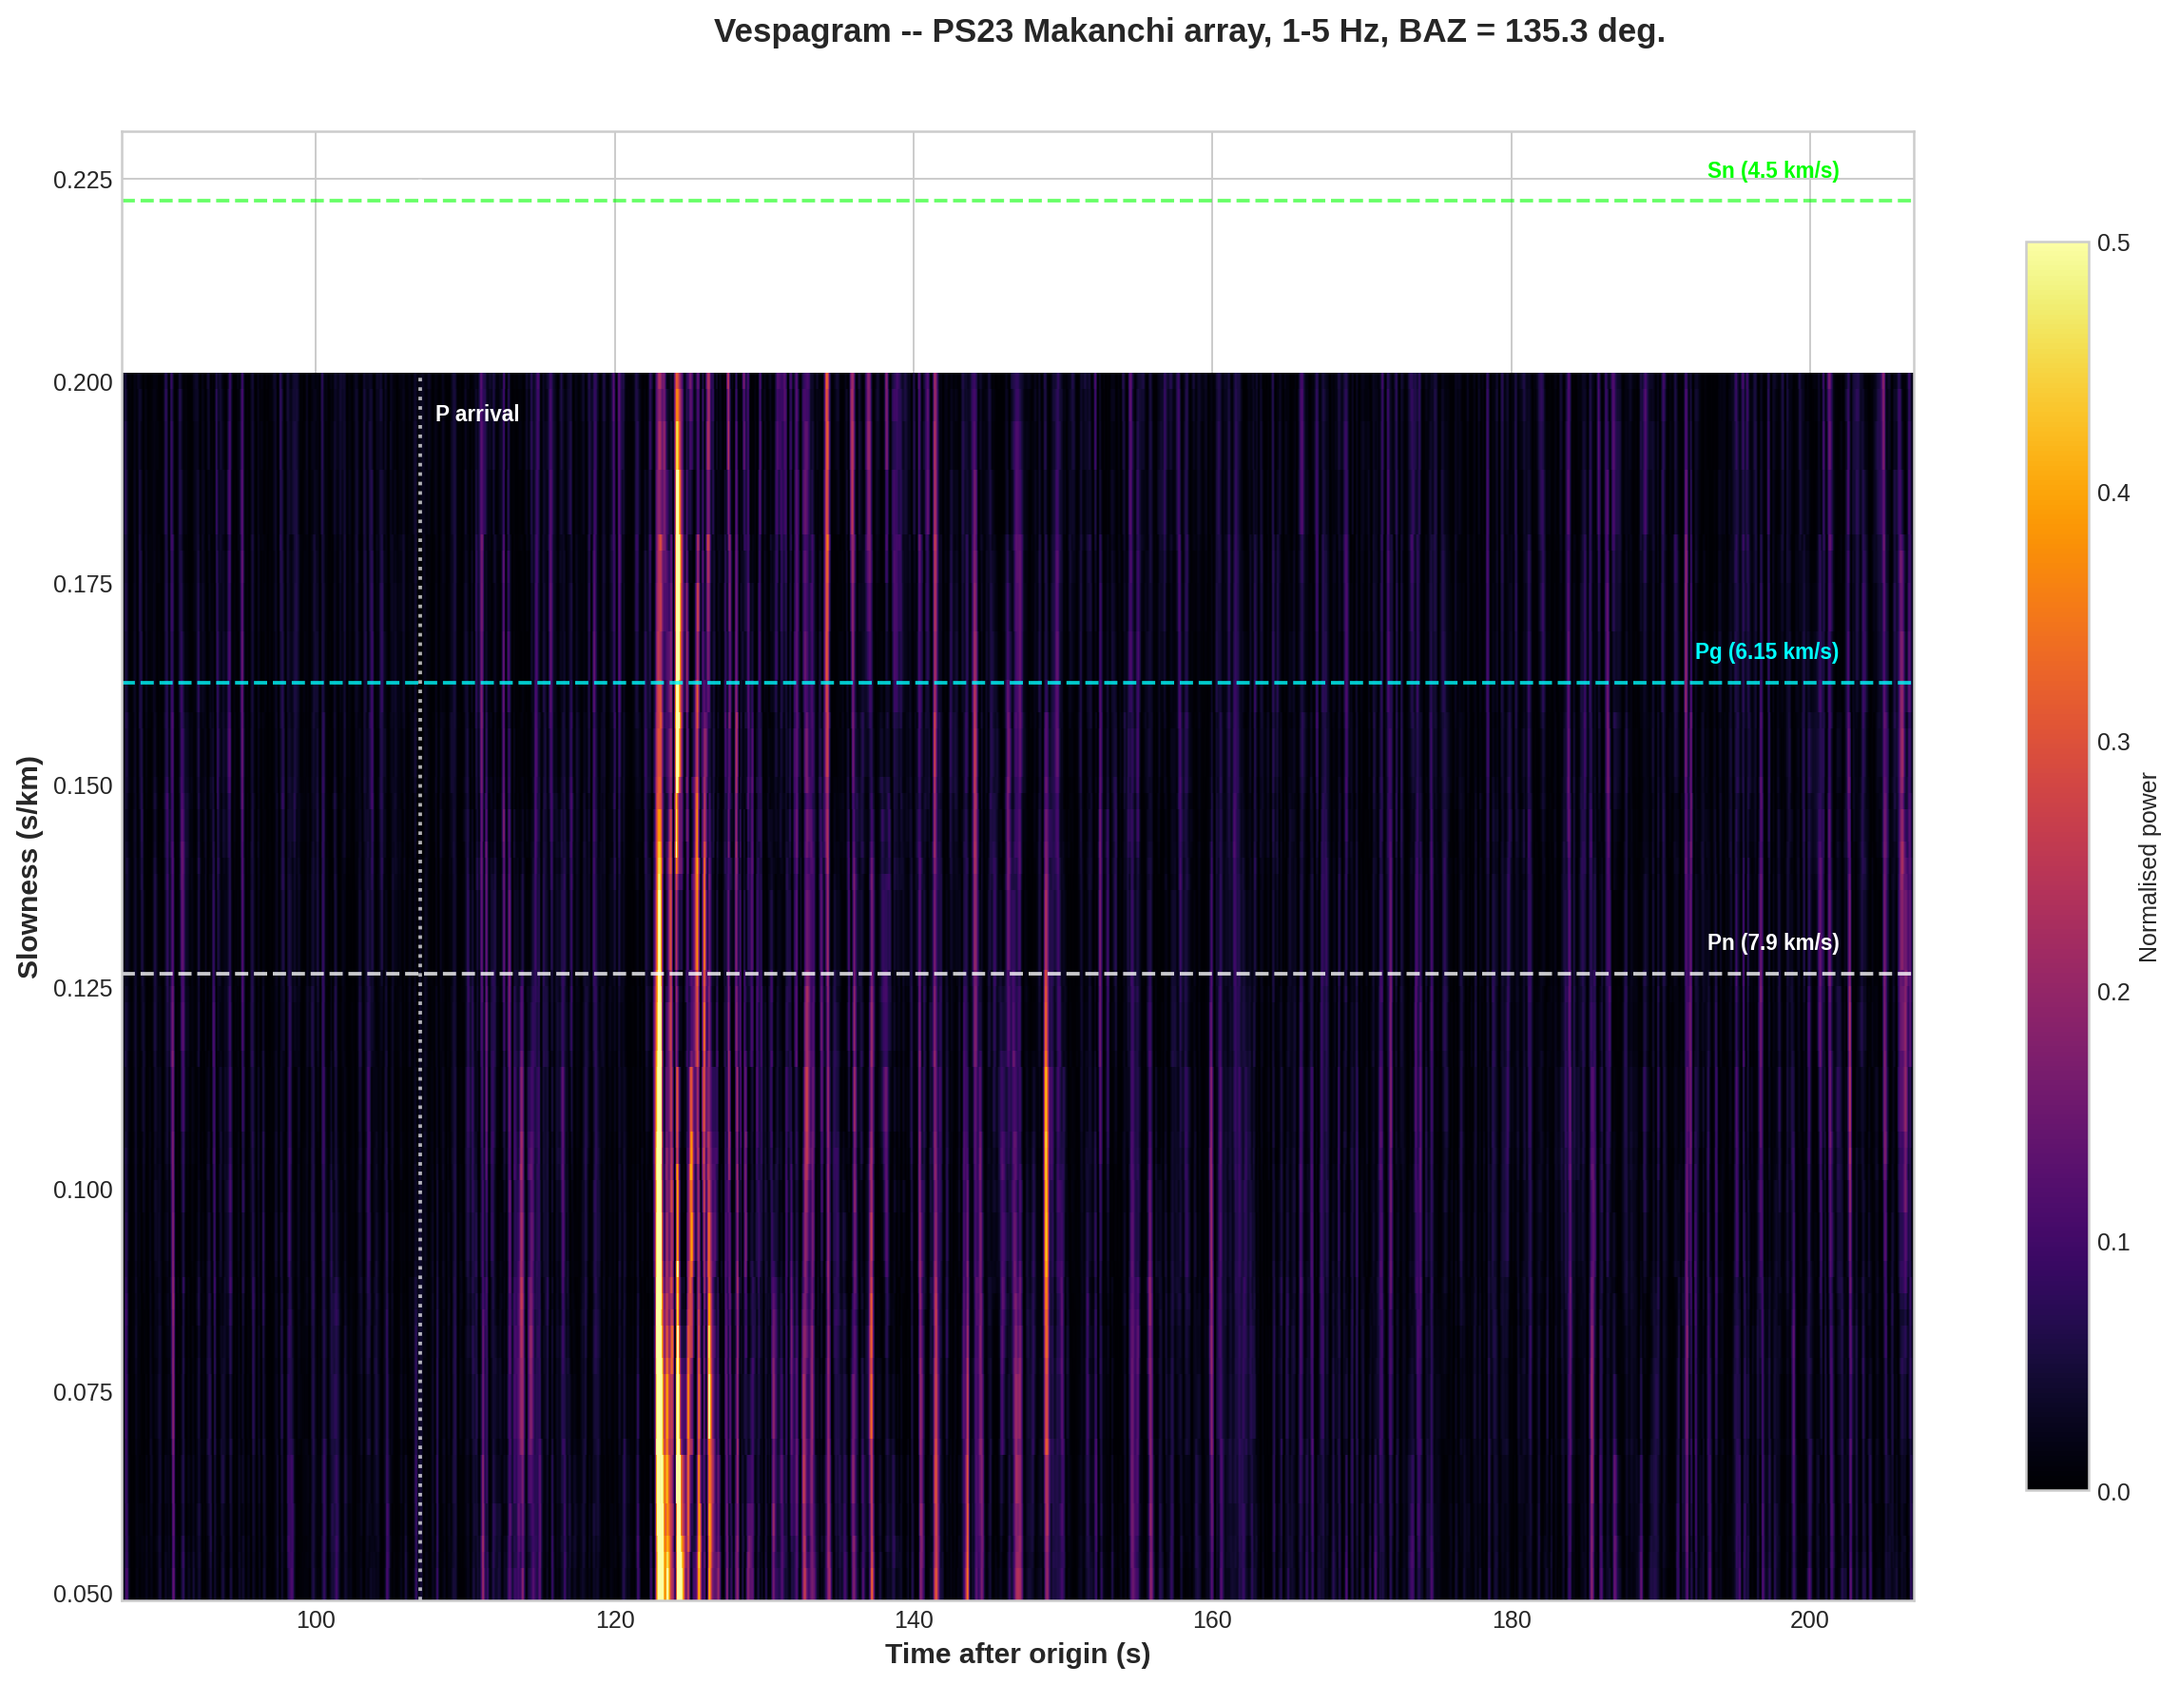
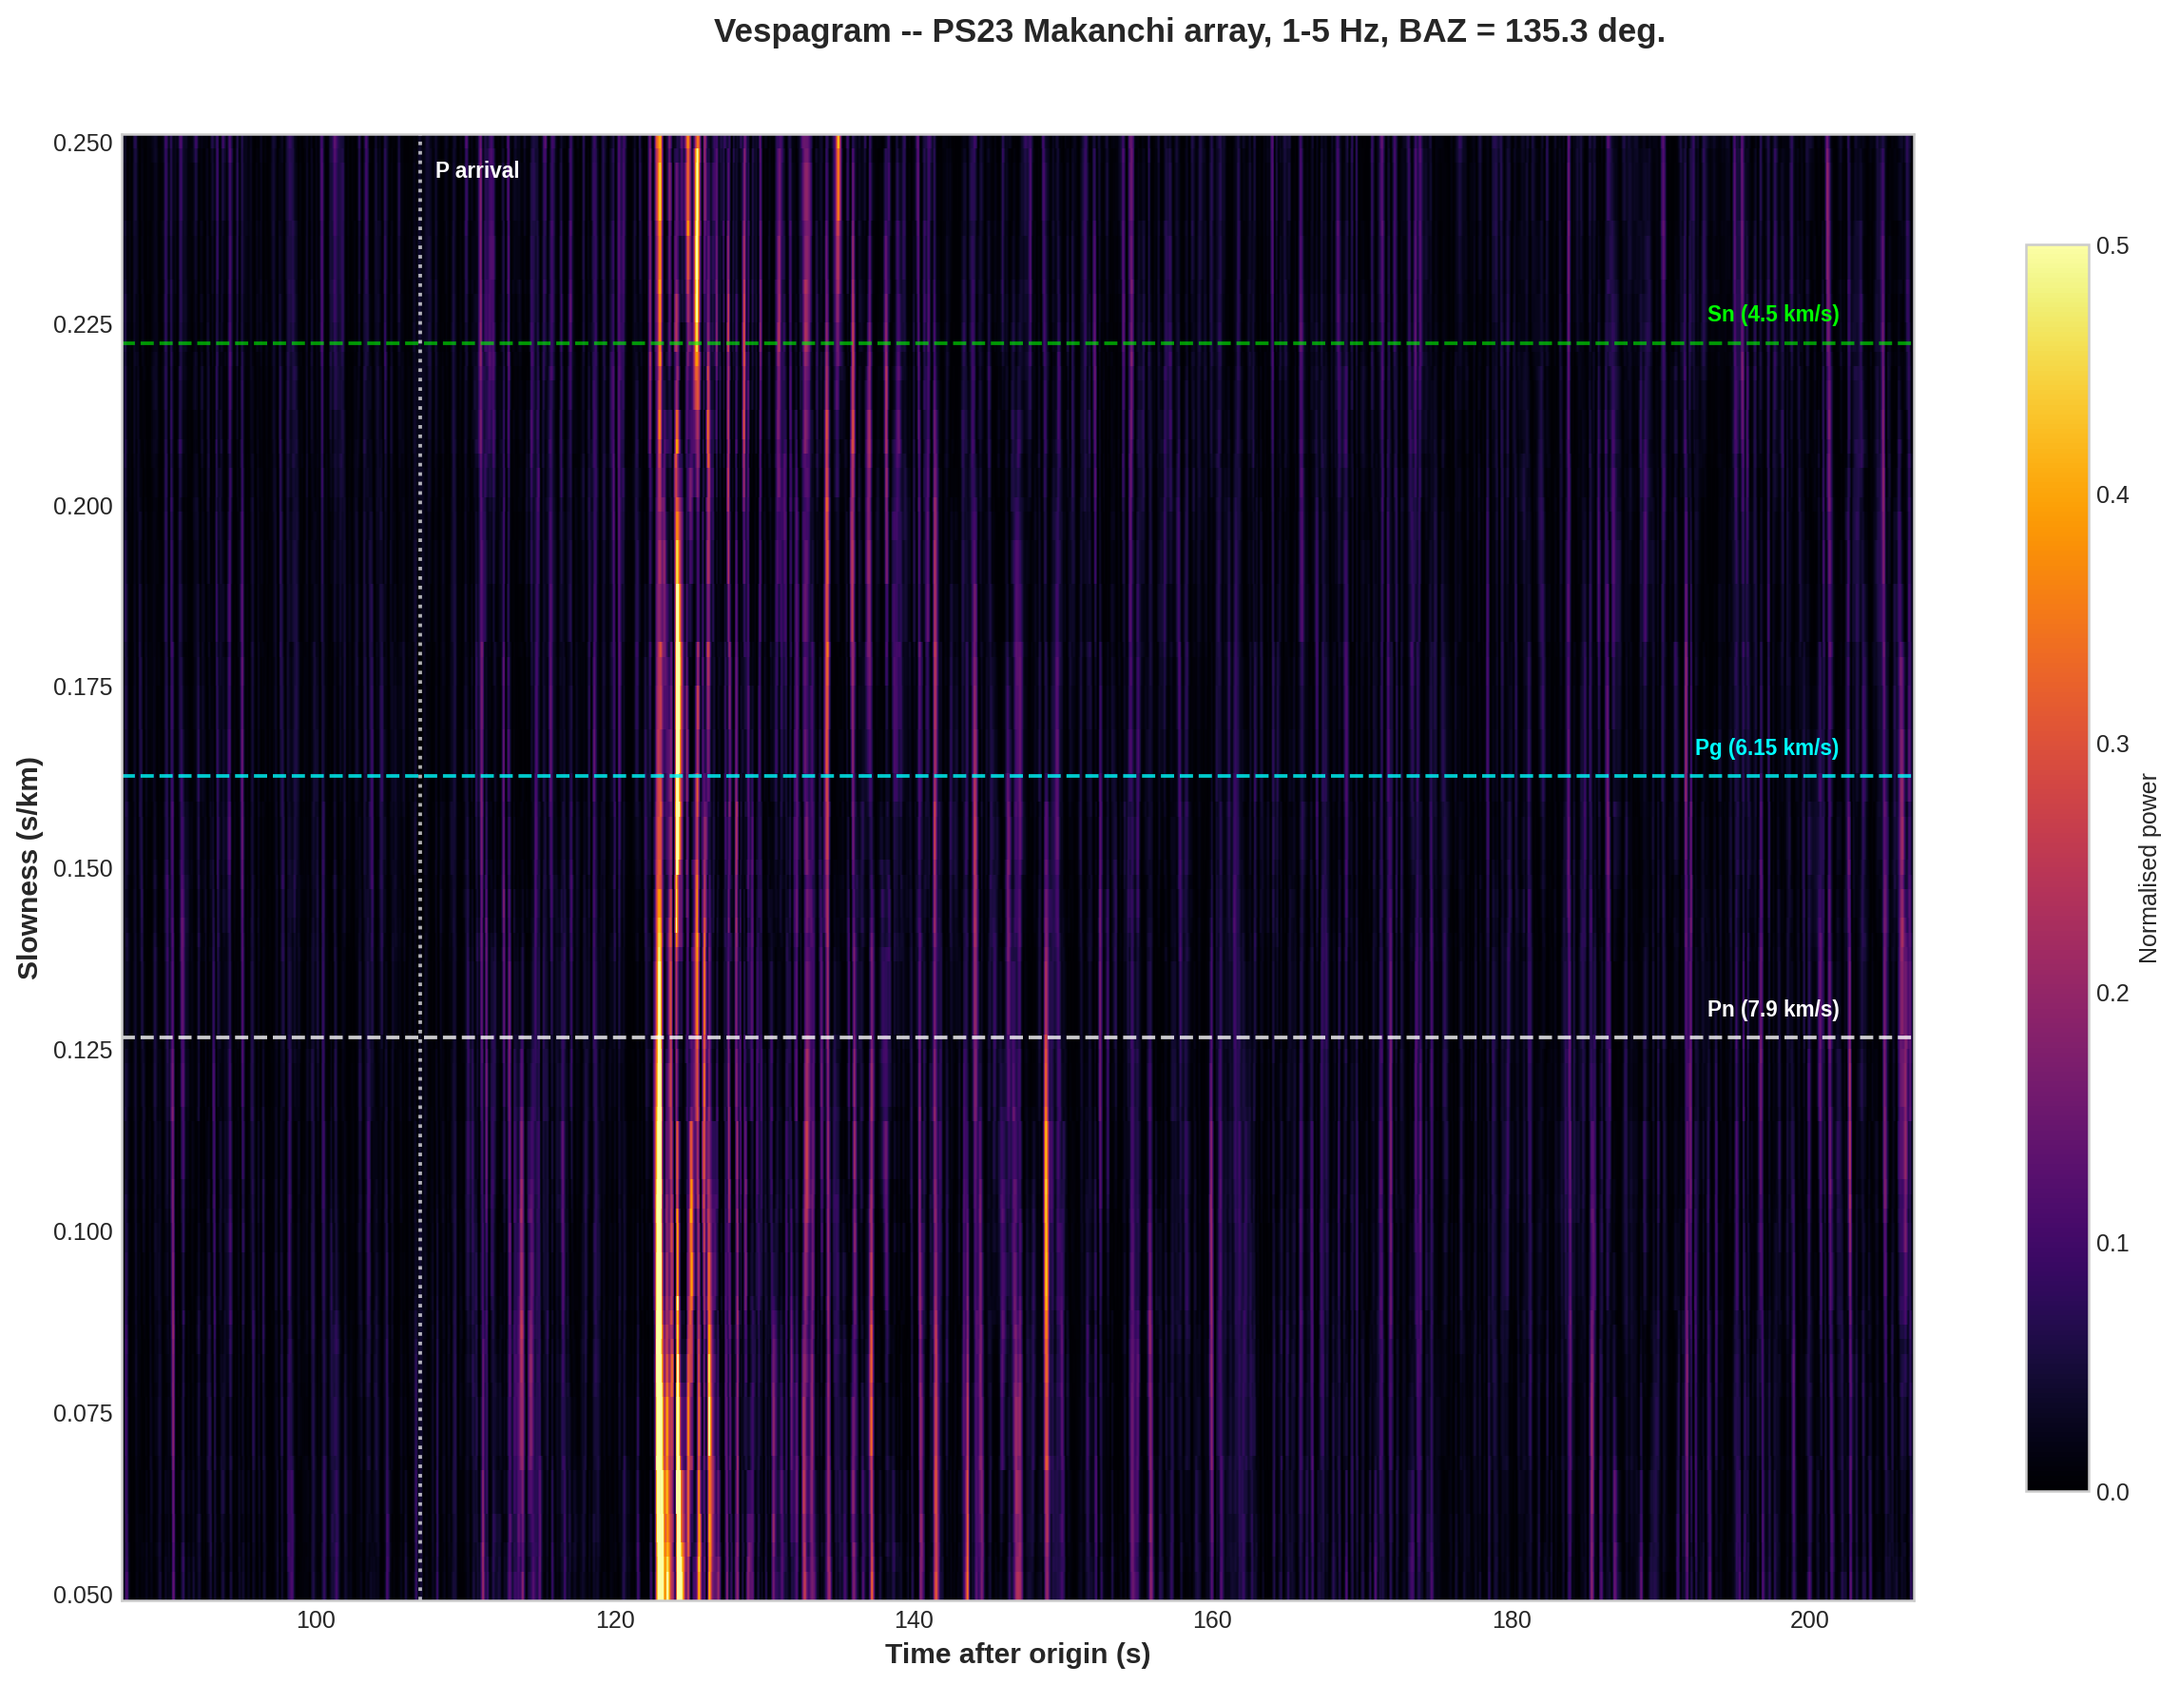
Fix array figure polish: label crowding in fig09, extend vespagram slowness range
- fig09: Add manual label offsets for MK05/MKAR/MK01-MK04 to prevent
  overlapping station names near array center
- fig11: Extend vespagram slowness range from 0.20 to 0.25 s/km so
  the Sn phase marker (0.222 s/km) sits on actual heatmap data

diff --git a/scripts/investigate_lop_nor_2020.py b/scripts/investigate_lop_nor_2020.py
@@ -1645,12 +1645,22 @@ def fig09_array_geometry_and_waveforms(outdir, stream_all, inventory):
 
     # ---- (a) Array layout map ----
     ax = fig.add_subplot(gs[0, 0])
+    # Manual label offsets for crowded elements
+    label_nudge = {
+        "MK05": (0.2, 0.25),
+        "MKAR": (-0.3, 0.25),
+        "MK01": (0.2, -0.25),
+        "MK02": (0.2, 0.2),
+        "MK03": (0.2, -0.25),
+        "MK04": (-0.4, 0.15),
+    }
     for code, (dx, dy) in positions.items():
         color = "#d62728" if code == PS23_REF else "#1f77b4"
         marker = "s" if code == PS23_REF else "^"
         ax.plot(dx, dy, marker, color=color, ms=12, markeredgecolor="k",
                 markeredgewidth=0.8, zorder=5)
-        ax.text(dx + 0.15, dy + 0.15, code, fontsize=8, fontweight="bold",
+        ndx, ndy = label_nudge.get(code, (0.15, 0.15))
+        ax.text(dx + ndx, dy + ndy, code, fontsize=7, fontweight="bold",
                 color="#333", zorder=6)
 
     # Backazimuth arrow toward event
@@ -1969,7 +1979,7 @@ def fig11_vespagram(outdir, stream_shz, coords, ref_lat, ref_lon,
 
     times, slownesses, power = compute_vespagram(
         st_v, coords, ref_lat, ref_lon, baz_expected,
-        slow_min=0.05, slow_max=0.20, slow_step=0.002,
+        slow_min=0.05, slow_max=0.25, slow_step=0.002,
         t_start_rel=t_start_rel, t_end_rel=t_end_rel,
     )
 
